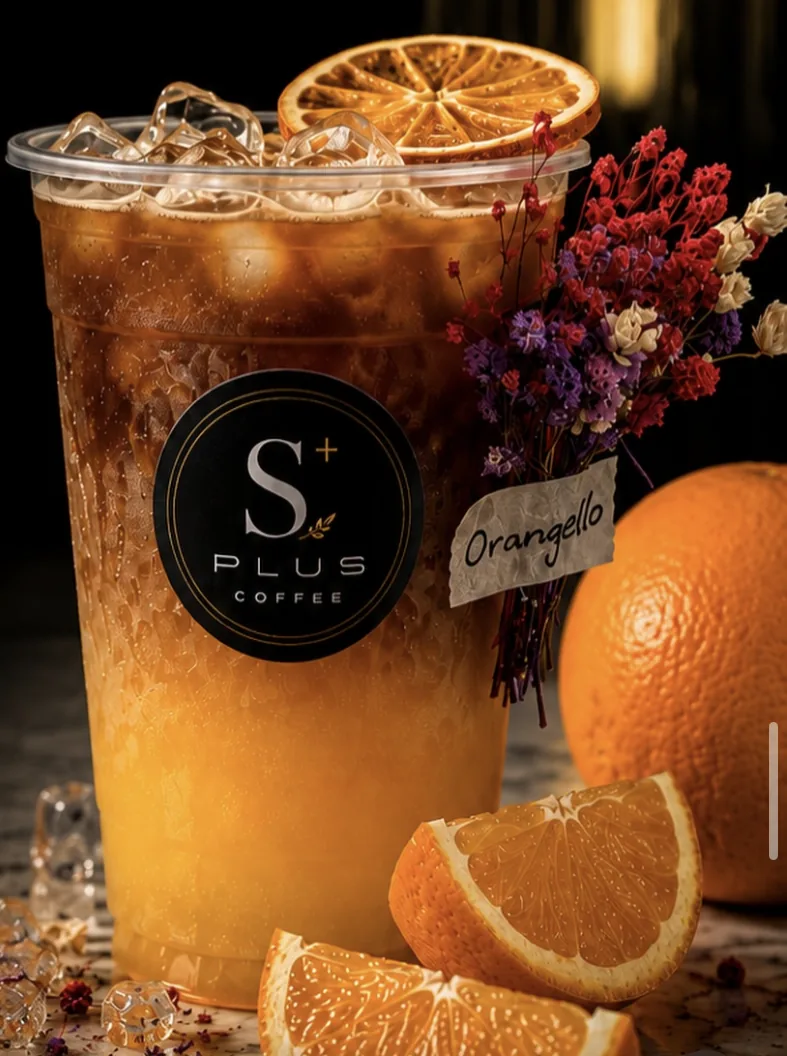
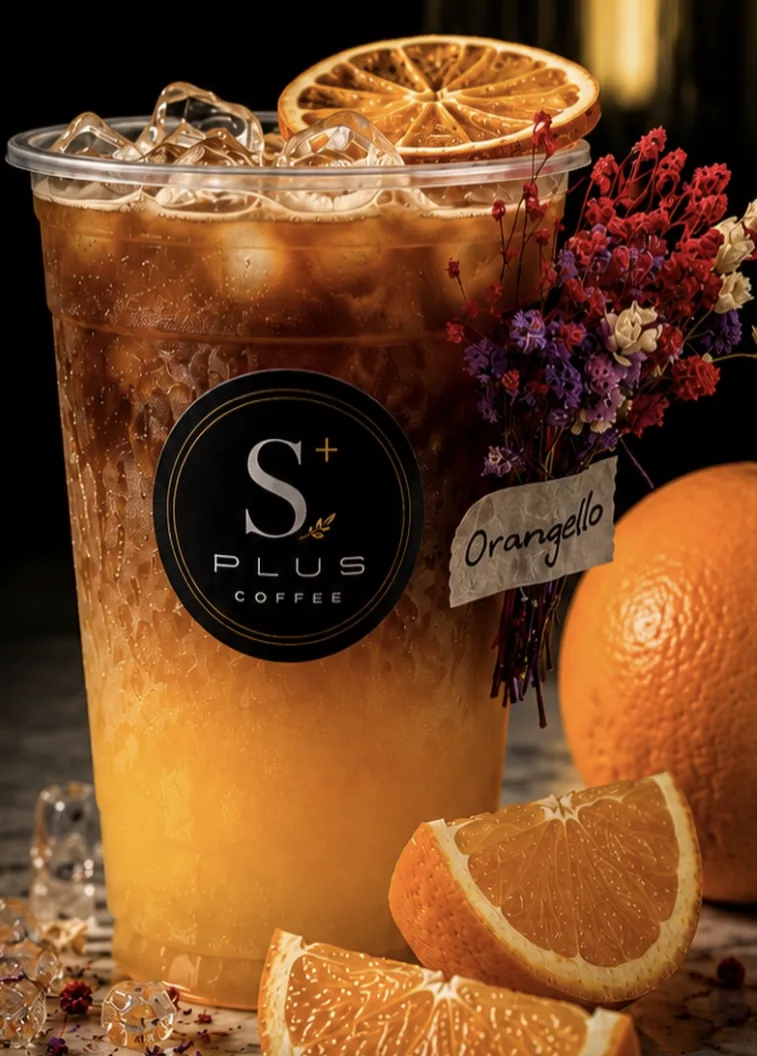
Tighten spacing and scale across the page
- Signature drink rows and photos about 25% smaller, capped below the
  viewport height; tighter ingredient lists and headings
- Tokyo Matcha / Sabah Tea pair narrower with a smaller stagger
- Menu rows, headings and gaps about 20% more compact
- Section padding reduced to 60-96px; content max-width 1200px
- Trim an Instagram scroll indicator from three drink photos

Claude-Session: https://claude.ai/code/session_01QajRcE5VCTMhpGkpNzeXsv

diff --git a/css/styles.css b/css/styles.css
@@ -22,7 +22,7 @@
   --sans: "Jost", "Futura", "Avenir Next", system-ui, sans-serif;
 
   --gutter: max(16px, 4.5vw);
-  --max: 1240px;
+  --max: 1200px;
   --ease: cubic-bezier(.2, .7, .2, 1);
   color-scheme: dark;
 }
@@ -113,10 +113,10 @@ p { margin: 0; }
 /* ── Hero ────────────────────────────────────── */
 .hero {
   display: grid; grid-template-columns: minmax(0, .9fr) minmax(0, 1.25fr); align-items: center; gap: clamp(36px, 5vw, 80px);
-  max-width: 1360px; margin: 0 auto;
-  padding: clamp(120px, 15vh, 170px) var(--gutter) clamp(24px, 4vw, 48px);
+  max-width: 1280px; margin: 0 auto;
+  padding: clamp(104px, 13vh, 140px) var(--gutter) clamp(16px, 3vw, 32px);
 }
-.hero h1 { font-size: clamp(2.7rem, 5.6vw, 5.2rem); letter-spacing: -.01em; }
+.hero h1 { font-size: clamp(2.6rem, 4.8vw, 4.4rem); letter-spacing: -.01em; }
 .hero h1 em { color: var(--gold-hi); }
 .lede { margin: 1.6rem 0 2.4rem; max-width: 30em; color: var(--muted); font-size: 1.08rem; }
 .hero-media { position: relative; margin: 0; }
@@ -133,54 +133,55 @@ p { margin: 0; }
 }
 
 /* ── Sections ────────────────────────────────── */
-.section { max-width: calc(var(--max) + 2 * var(--gutter)); margin: 0 auto; padding: clamp(84px, 11vw, 150px) var(--gutter); }
-.section-head { max-width: 760px; margin-bottom: clamp(44px, 6vw, 80px); }
-.section-head h2 { font-size: clamp(2.5rem, 5.4vw, 4.4rem); }
+.section { max-width: calc(var(--max) + 2 * var(--gutter)); margin: 0 auto; padding: clamp(60px, 7vw, 96px) var(--gutter); }
+.section-head { max-width: 760px; margin-bottom: clamp(32px, 4vw, 52px); }
+.section-head h2 { font-size: clamp(2.3rem, 4.2vw, 3.5rem); }
 .section-sub { margin-top: 1.1rem; color: var(--muted); max-width: 36em; }
 
 /* Leaf divider, as on the S+ drink posts */
-.divider { display: flex; align-items: center; gap: 12px; color: var(--accent, var(--gold)); margin: 1.4rem 0; max-width: 320px; }
+.divider { display: flex; align-items: center; gap: 12px; color: var(--accent, var(--gold)); margin: 1rem 0; max-width: 320px; }
 .divider::before, .divider::after { content: ""; flex: 1; height: 1px; background: currentColor; opacity: .55; }
 .divider svg { width: 18px; height: 18px; fill: currentColor; }
 
 /* ── Signature drinks ────────────────────────── */
-.features { display: grid; gap: clamp(90px, 12vw, 160px); }
-.feature { display: grid; grid-template-columns: minmax(0, 5fr) minmax(0, 6fr); gap: clamp(32px, 6vw, 96px); align-items: center; }
+.features { display: grid; gap: clamp(64px, 7vw, 96px); max-width: 1080px; margin-inline: auto; }
+.feature { display: grid; grid-template-columns: minmax(0, 9fr) minmax(0, 11fr); gap: clamp(28px, 5vw, 72px); align-items: center; }
 .feature.flip .feature-media { order: 2; }
 .feature-media { position: relative; margin: 0; overflow: hidden; border-radius: 2px; background: var(--card); }
-.feature-media img { width: 100%; height: 100%; object-fit: cover; transition: transform 1.4s var(--ease); }
+.feature-media img { width: 100%; height: auto; aspect-ratio: 4 / 5; max-height: min(72vh, 600px); object-fit: cover; object-position: 50% 40%; transition: transform 1.4s var(--ease); }
 .feature-media:hover img { transform: scale(1.04); }
-.feature-kicker { font: italic 400 1.15rem/1.3 var(--display); color: var(--accent); }
-.feature h3 { margin-top: .6rem; font-size: clamp(2.5rem, 5.2vw, 4.4rem); text-transform: uppercase; letter-spacing: .02em; font-weight: 400; }
+.feature-kicker { font: italic 400 1.05rem/1.3 var(--display); color: var(--accent); }
+.feature h3 { margin-top: .4rem; font-size: clamp(2.2rem, 3.8vw, 3.3rem); text-transform: uppercase; letter-spacing: .02em; font-weight: 400; }
 .feature-blurb { color: var(--muted); max-width: 30em; }
 .serve {
-  display: inline-flex; align-items: stretch; margin-top: 2rem; border: 1px solid var(--accent);
+  display: inline-flex; align-items: stretch; margin-top: 1.4rem; border: 1px solid var(--accent);
   font: 500 .76rem/1 var(--sans); letter-spacing: .18em; text-transform: uppercase; color: var(--text);
 }
-.serve span { padding: .9em 1.2em; }
+.serve span { padding: .75em 1.1em; }
 .serve span + span { border-left: 1px solid var(--accent); color: var(--text-2); }
 
-.ingredients { list-style: none; padding: 0; margin: 1.8rem 0 0; max-width: 34rem; }
-.ingredients li { display: grid; grid-template-columns: 6.2rem minmax(0, 1fr); gap: 4px 18px; padding: .85rem 0; border-bottom: 1px solid var(--line-soft); }
+.ingredients { list-style: none; padding: 0; margin: 1.3rem 0 0; max-width: 32rem; }
+.ingredients li { display: grid; grid-template-columns: 5.6rem minmax(0, 1fr); gap: 2px 16px; padding: .55rem 0; border-bottom: 1px solid var(--line-soft); }
 .ingredients li:first-child { border-top: 1px solid var(--line-soft); }
 .ing-amt { font: 500 .9rem/1.5 var(--sans); color: var(--accent); font-variant-numeric: tabular-nums; }
 .ing-name { font: 500 .88rem/1.5 var(--sans); letter-spacing: .12em; text-transform: uppercase; color: var(--text); }
-.ing-note { display: block; font: italic 400 .95rem/1.4 var(--display); letter-spacing: 0; text-transform: none; color: var(--muted); }
+.ing-note { display: block; font: italic 400 .9rem/1.35 var(--display); letter-spacing: 0; text-transform: none; color: var(--muted); }
 
 /* The last two drinks pair up as tall cards */
-.feature-pair { display: grid; grid-template-columns: 1fr 1fr; gap: clamp(28px, 4vw, 64px); align-items: start; }
-.feature-pair .feature { grid-template-columns: 1fr; gap: 32px; }
-.feature-pair .feature:nth-child(2) { margin-top: clamp(0px, 9vw, 140px); }
-.feature-pair .feature-media img { aspect-ratio: 4 / 4.4; }
-.feature-pair h3 { font-size: clamp(2.2rem, 4vw, 3.4rem); }
+.feature-pair { display: grid; grid-template-columns: 1fr 1fr; gap: clamp(28px, 4vw, 56px); align-items: start; max-width: 940px; margin-inline: auto; width: 100%; }
+.feature-pair .feature { grid-template-columns: 1fr; gap: 22px; }
+.feature-pair .feature:nth-child(2) { margin-top: clamp(0px, 4vw, 56px); }
+.feature-pair .feature-media img { aspect-ratio: 4 / 4.3; max-height: 480px; }
+.feature-pair h3 { font-size: clamp(2rem, 3vw, 2.6rem); }
 
 @media (max-width: 820px) {
   .feature, .feature-pair { grid-template-columns: 1fr; }
   .feature.flip .feature-media { order: 0; }
-  .feature-pair .feature:nth-child(2) { margin-top: 56px; }
-  .feature-media img, .feature-pair .feature-media img { aspect-ratio: 4 / 4.6; max-height: 78svh; }
+  .feature-pair .feature:nth-child(2) { margin-top: 72px; }
+  .feature-media img, .feature-pair .feature-media img { aspect-ratio: 4 / 4.5; max-height: 64svh; }
   .feature-pair { gap: 0; }
-  .features { gap: 96px; }
+  .features { gap: 72px; }
+  .feature { gap: 24px; }
 }
 
 /* ── Fall menu ───────────────────────────────── */
@@ -200,11 +201,11 @@ p { margin: 0; }
 .fall-media { margin: 0; overflow: hidden; border-radius: 2px; background: var(--card); aspect-ratio: 4 / 5; }
 .fall-media img { width: 100%; height: 100%; object-fit: cover; object-position: 50% 45%; transition: transform 1.4s var(--ease); }
 .fall-card:hover .fall-media img { transform: scale(1.05); }
-.fall-body { display: flex; flex-direction: column; flex: 1; padding-top: 1.1rem; }
+.fall-body { display: flex; flex-direction: column; flex: 1; padding-top: .9rem; }
 .fall-card h3 { font: 500 1.08rem/1.25 var(--display); letter-spacing: .06em; text-transform: uppercase; }
-.fall-card h3::after { content: ""; display: block; width: 34px; height: 1px; background: var(--pumpkin); margin: .8rem 0 .7rem; }
+.fall-card h3::after { content: ""; display: block; width: 34px; height: 1px; background: var(--pumpkin); margin: .6rem 0 .55rem; }
 .fall-recipe { font-size: .95rem; color: var(--muted); }
-.fall-price { margin-top: auto; padding-top: .9rem; font: 400 1.55rem/1 var(--display); color: var(--gold-hi); font-variant-numeric: tabular-nums; }
+.fall-price { margin-top: auto; padding-top: .7rem; font: 400 1.4rem/1 var(--display); color: var(--gold-hi); font-variant-numeric: tabular-nums; }
 
 @media (max-width: 980px) { .fall-grid { grid-template-columns: repeat(2, minmax(0, 1fr)); } }
 @media (max-width: 560px) {
@@ -219,38 +220,38 @@ p { margin: 0; }
 
 /* ── Full menu ───────────────────────────────── */
 .menu-note {
-  display: inline-flex; align-items: center; gap: .7em; margin-top: 1.4rem;
+  display: inline-flex; align-items: center; gap: .7em; margin-top: 1.1rem;
   padding: .7em 1.1em; border: 1px solid var(--line); border-radius: 18px;
   font-size: .82rem; letter-spacing: .1em; text-transform: uppercase; color: var(--text-2);
 }
 .menu-note svg { width: 15px; height: 15px; stroke: var(--gold); fill: none; flex: none; }
-.menu-grid { columns: 3; column-gap: clamp(32px, 4.5vw, 64px); }
-.menu-cat { break-inside: avoid; margin-bottom: clamp(40px, 5vw, 60px); }
-.menu-cat h3 { font: 500 1.65rem/1.1 var(--display); color: var(--gold-hi); padding-bottom: .9rem; border-bottom: 1px solid var(--line); }
+.menu-grid { columns: 3; column-gap: clamp(28px, 4vw, 56px); font-size: .98rem; }
+.menu-cat { break-inside: avoid; margin-bottom: clamp(28px, 3vw, 40px); }
+.menu-cat h3 { font: 500 1.4rem/1.1 var(--display); color: var(--gold-hi); padding-bottom: .65rem; border-bottom: 1px solid var(--line); }
 .price-table { width: 100%; border-collapse: collapse; font-variant-numeric: tabular-nums; }
-.price-table th { padding: .9rem 0 .4rem; font: 500 .74rem/1 var(--sans); letter-spacing: .14em; text-transform: uppercase; color: var(--muted); text-align: right; }
+.price-table th { padding: .6rem 0 .25rem; font: 500 .74rem/1 var(--sans); letter-spacing: .14em; text-transform: uppercase; color: var(--muted); text-align: right; }
 .price-table th:first-child { text-align: left; }
-.price-table td { padding: .62rem 0; border-bottom: 1px solid var(--line-soft); vertical-align: baseline; }
+.price-table td { padding: .42rem 0; border-bottom: 1px solid var(--line-soft); vertical-align: baseline; }
 .price-table td:first-child { color: var(--text); padding-right: 12px; }
 .price-table .p { width: 4.4em; text-align: right; color: var(--text-2); white-space: nowrap; }
 .price-table .na { color: rgba(163, 155, 143, .5); }
 .flat-list { list-style: none; padding: 0; margin: 0; }
-.flat-list li { display: flex; justify-content: space-between; gap: 16px; padding: .62rem 0; border-bottom: 1px solid var(--line-soft); }
+.flat-list li { display: flex; justify-content: space-between; gap: 16px; padding: .42rem 0; border-bottom: 1px solid var(--line-soft); }
 .flat-list li span:first-child { color: var(--text); }
 .flat-list li span:last-child { color: var(--text-2); font-variant-numeric: tabular-nums; white-space: nowrap; }
 .menu-cat .flat-list:first-child, .menu-cat h3 + .flat-list { margin-top: .4rem; }
-.choices { margin-top: 1.3rem; }
+.choices { margin-top: 1rem; }
 .choices-head { display: flex; justify-content: space-between; gap: 12px; font: 500 .76rem/1.3 var(--sans); letter-spacing: .14em; text-transform: uppercase; color: var(--gold); margin-bottom: .8rem; }
 .choices-head span:last-child { color: var(--text-2); letter-spacing: .04em; }
 .pill-list { list-style: none; display: flex; flex-wrap: wrap; gap: 8px; padding: 0; margin: 0; }
-.pill-list li { padding: .45em .95em; border: 1px solid var(--line-soft); border-radius: 999px; font-size: .92rem; color: var(--text-2); }
+.pill-list li { padding: .32em .85em; border: 1px solid var(--line-soft); border-radius: 999px; font-size: .9rem; color: var(--text-2); }
 .cat-link { display: inline-block; margin-top: 1rem; font-size: .9rem; color: var(--gold-hi); text-decoration: none; border-bottom: 1px solid var(--line); padding-bottom: 2px; }
 .cat-link:hover { border-color: var(--gold-hi); }
 
-.flavors { border: 1px solid var(--line); padding: clamp(22px, 3vw, 36px); border-radius: 2px; }
-.flavors h3 { font: 500 1.65rem/1.1 var(--display); color: var(--gold-hi); }
+.flavors { border: 1px solid var(--line); padding: clamp(20px, 2.4vw, 28px); border-radius: 2px; }
+.flavors h3 { font: 500 1.4rem/1.1 var(--display); color: var(--gold-hi); }
 .flavors h3 span { font: 400 1rem var(--sans); color: var(--text-2); margin-left: .6em; letter-spacing: .04em; }
-.flavor-list { list-style: none; padding: 0; margin: 1.2rem 0 0; display: grid; grid-template-columns: repeat(4, minmax(0, 1fr)); gap: .55rem 24px; }
+.flavor-list { list-style: none; padding: 0; margin: .9rem 0 0; display: grid; grid-template-columns: repeat(4, minmax(0, 1fr)); gap: .35rem 24px; }
 .flavor-list li { display: flex; align-items: baseline; gap: .7em; color: var(--text-2); }
 .flavor-list li::before { content: ""; width: 5px; height: 5px; border-radius: 50%; background: var(--gold); flex: none; transform: translateY(-2px); }
 
@@ -265,11 +266,11 @@ p { margin: 0; }
 .about-media { margin: 0; overflow: hidden; border-radius: 2px; }
 .about-media img { width: 100%; aspect-ratio: 708 / 287; object-fit: cover; transition: transform 1.4s var(--ease); }
 .about-media:hover img { transform: scale(1.03); }
-.about h2 { font-size: clamp(2.3rem, 4.6vw, 3.8rem); margin-bottom: 1.4rem; }
+.about h2 { font-size: clamp(2.2rem, 3.8vw, 3.2rem); margin-bottom: 1.1rem; }
 .about-copy p + p { margin-top: 1rem; }
 .about-copy > p:not(.eyebrow) { color: var(--muted); max-width: 32em; }
-.about-facts { list-style: none; padding: 0; margin: 2rem 0 0; display: grid; gap: 0; }
-.about-facts li { padding: .8rem 0; border-top: 1px solid var(--line-soft); }
+.about-facts { list-style: none; padding: 0; margin: 1.5rem 0 0; display: grid; gap: 0; }
+.about-facts li { padding: .6rem 0; border-top: 1px solid var(--line-soft); }
 .about-facts b { font-weight: 400; color: var(--text); }
 @media (max-width: 860px) { .about { grid-template-columns: 1fr; } }
 
@@ -279,9 +280,9 @@ p { margin: 0; }
 .address-block { display: flex; align-items: center; gap: clamp(18px, 3vw, 34px); text-align: left; margin-top: .6rem; }
 .pin { flex: none; width: clamp(46px, 7vw, 76px); height: auto; fill: none; stroke: var(--gold); stroke-width: 1.1; }
 .address-block address { font-style: normal; border-left: 1px solid var(--gold); padding-left: clamp(18px, 3vw, 34px); display: flex; flex-direction: column; }
-.addr-street, .addr-city { font: 400 clamp(1.9rem, 5.2vw, 3.6rem)/1.1 var(--display); color: var(--text); }
+.addr-street, .addr-city { font: 400 clamp(1.8rem, 4.2vw, 3rem)/1.1 var(--display); color: var(--text); }
 .addr-country { margin-top: .9rem; font: 500 clamp(.72rem, 1.6vw, .95rem)/1 var(--sans); letter-spacing: .5em; text-transform: uppercase; color: var(--gold); }
-.see-you { margin: clamp(30px, 5vw, 48px) 0 1.6rem; font: italic 400 clamp(1.5rem, 3vw, 2rem)/1 var(--display); color: var(--gold-hi); }
+.see-you { margin: clamp(24px, 3.5vw, 36px) 0 1.3rem; font: italic 400 clamp(1.5rem, 3vw, 2rem)/1 var(--display); color: var(--gold-hi); }
 .cta-center { justify-content: center; }
 .location-note { margin-top: 1.4rem; font-size: .92rem; color: var(--muted); }
 .socials { display: flex; flex-wrap: wrap; justify-content: center; gap: 10px 26px; margin-top: 1.4rem; }
@@ -293,11 +294,11 @@ p { margin: 0; }
 #contact { border-top: 1px solid var(--line-soft); }
 .book-wrap { display: grid; grid-template-columns: minmax(0, 1fr) minmax(0, 1.25fr); gap: clamp(36px, 6vw, 88px); align-items: start; }
 .book-intro { position: sticky; top: 110px; }
-.book-intro h2 { font-size: clamp(2.3rem, 4.6vw, 3.8rem); }
+.book-intro h2 { font-size: clamp(2.2rem, 3.8vw, 3.2rem); }
 @media (max-width: 900px) { .book-wrap { grid-template-columns: 1fr; } .book-intro { position: static; } }
 
 .ticket {
-  margin-top: 36px; padding: 22px 24px; border: 1px solid var(--line); border-radius: 4px;
+  margin-top: 28px; padding: 20px 22px; border: 1px solid var(--line); border-radius: 4px;
   background: linear-gradient(150deg, #1a1511, #0d0b09);
   -webkit-mask: radial-gradient(circle at 0 64%, transparent 11px, #000 12px) left / 51% 100% no-repeat,
                 radial-gradient(circle at 100% 64%, transparent 11px, #000 12px) right / 51% 100% no-repeat;
@@ -316,7 +317,7 @@ p { margin: 0; }
 .ticket-cups span { font-size: .78rem; padding: .25em .75em; border: 1px solid var(--line); border-radius: 999px; color: var(--text-2); }
 
 .book-form { background: var(--card); border: 1px solid var(--line-soft); border-radius: 4px; padding: clamp(20px, 4vw, 40px); }
-.field { display: block; margin: 0 0 20px; border: 0; padding: 0; min-width: 0; }
+.field { display: block; margin: 0 0 16px; border: 0; padding: 0; min-width: 0; }
 .field > span, .field legend { display: block; font-size: .78rem; letter-spacing: .14em; text-transform: uppercase; color: var(--text-2); margin-bottom: 9px; padding: 0; }
 .field legend small { text-transform: none; letter-spacing: 0; color: var(--muted); }
 .field-row { display: grid; grid-template-columns: 1fr 1fr; gap: 16px; }

diff --git a/js/config.js b/js/config.js
@@ -58,7 +58,7 @@ export const SIGNATURE = [
     size: "16 oz",
     serve: "Iced only",
     accent: "#e08a3c",
-    image: "assets/img/orangello.webp", w: 787, h: 1056,
+    image: "assets/img/orangello.webp", w: 757, h: 1056,
     alt: "Iced Orangello layered espresso and orange juice with a dried orange slice and fresh oranges",
     ingredients: [
       ["2 shots", "Espresso", ""],
@@ -76,7 +76,7 @@ export const SIGNATURE = [
     size: "16 oz",
     serve: "Iced or hot",
     accent: "#9db36a",
-    image: "assets/img/tokyo-matcha.webp", w: 787, h: 1044,
+    image: "assets/img/tokyo-matcha.webp", w: 757, h: 1044,
     alt: "Tokyo Matcha with coconut cream, cocoa and cardamom pods on top",
     ingredients: [
       ["2–2.5 g", "Premium matcha", "Vibrant and smooth"],
@@ -95,7 +95,7 @@ export const SIGNATURE = [
     size: "16 oz",
     serve: "Iced or hot",
     accent: "#c4733a",
-    image: "assets/img/sabah-tea.webp", w: 773, h: 975,
+    image: "assets/img/sabah-tea.webp", w: 742, h: 975,
     alt: "Sabah Tea over ice with cinnamon sticks and cardamom pods",
     ingredients: [
       ["8 oz", "Black tea", "Robust and aromatic"],
